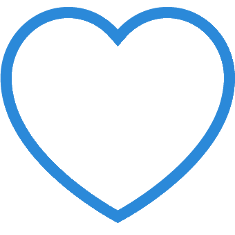
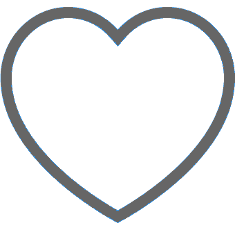
changed color scheme

Changed region(s): [[0.0, 0.0298, 1.0, 0.9532]]

diff --git a/Mobile/OmekaMobile/qml/utils/Style.qml b/Mobile/OmekaMobile/qml/utils/Style.qml
@@ -3,7 +3,7 @@ import QtQuick 2.5
 
 Item {
     /*-------------Color Scheme-------------*/
-    property color color1: "#2B89D9"
+    property color color1: "#666666"
     property color color2: "white"
     property color color3: "#E6E6E6"
     property color color4: "#F0F0F0"
